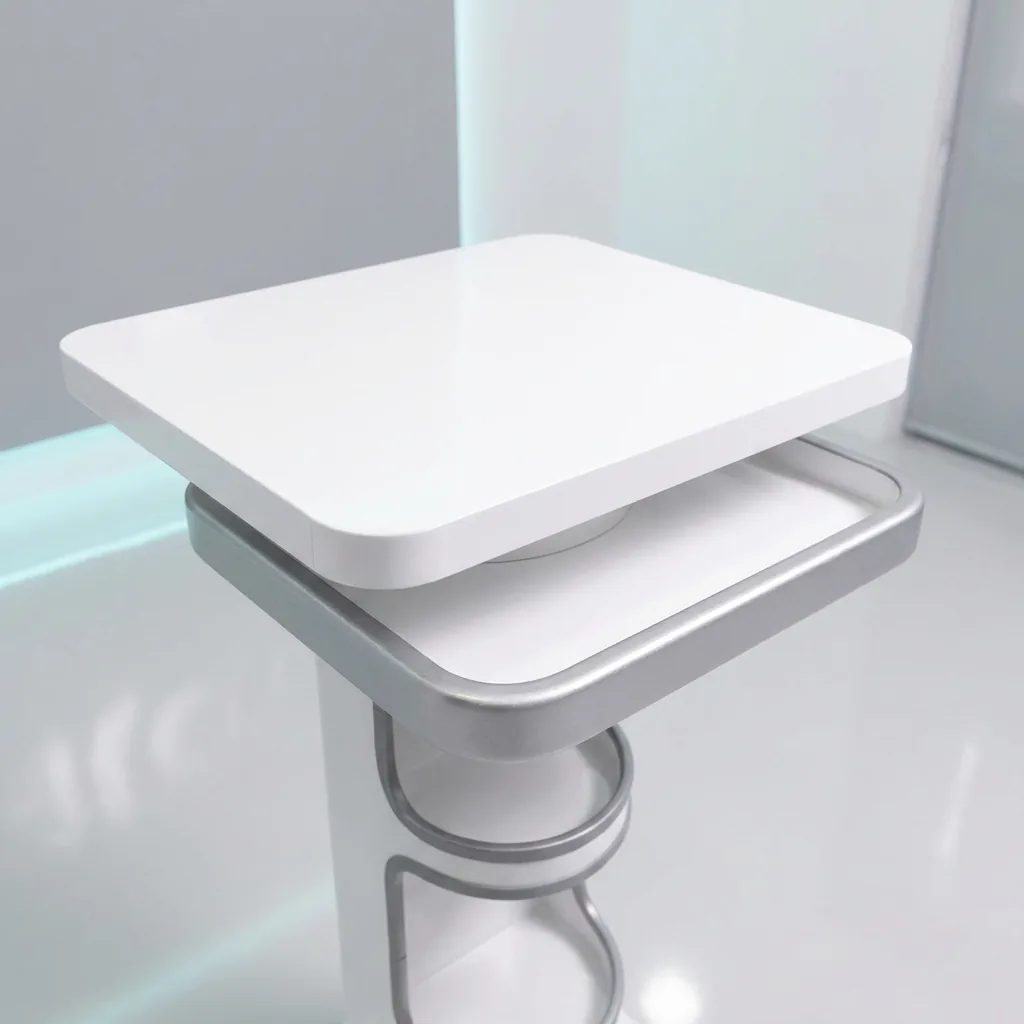
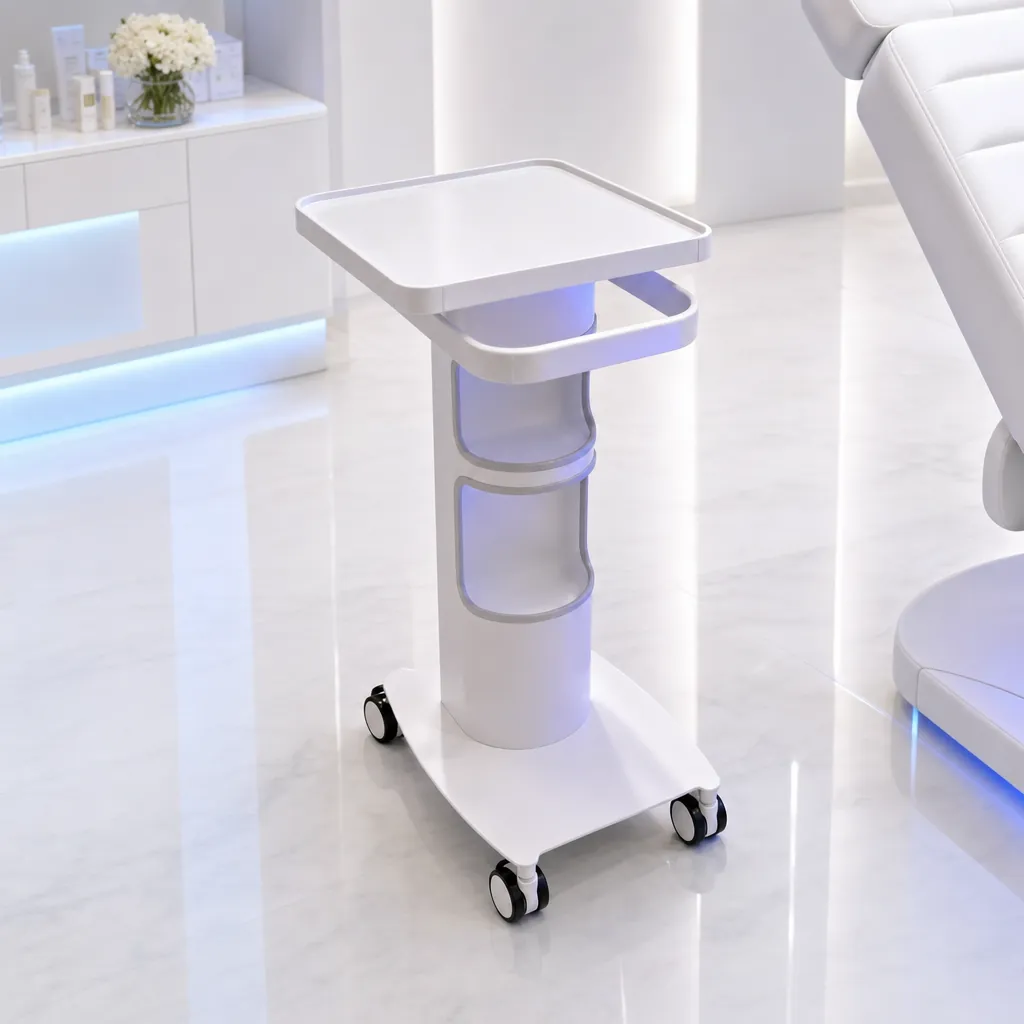
arreglos web

diff --git a/assets/css/main.css b/assets/css/main.css
@@ -58,6 +58,7 @@ body > section:first-of-type {
   display: flex;
   justify-content: flex-end;
   margin-right: 20px;
+  padding: 20px 0px;
 }
 
 .main-nav ul {
@@ -2514,7 +2515,7 @@ body > section:first-of-type {
 
 @media (max-width: 768px) {
   .main-header {
-    padding: 5px 15px;
+    padding: 10px 15px;
   }
   .logo-img {
     max-width: 60px !important;
@@ -3599,6 +3600,15 @@ a.reels-seguir:hover {
 
 /* .cuidado-grid ya trae margin-top: 1.5rem, asi que el aire entre la bajada
    y las cards lo pone la grilla y no hace falta duplicarlo aca. */
+
+/* .cuidado-grid--2 trae max-width: 800px pero sin centrado, porque en
+   /garantia/ la fila va alineada a la izquierda con el resto del texto.
+   Aca el bloque es centrado, asi que el centrado se agrega solo en este
+   contexto y no se toca el variant compartido. */
+.garantia-destacada .cuidado-grid--2 {
+  margin-left: auto;
+  margin-right: auto;
+}
 
 .garantia-destacada-cta {
   margin-top: var(--space-md);
